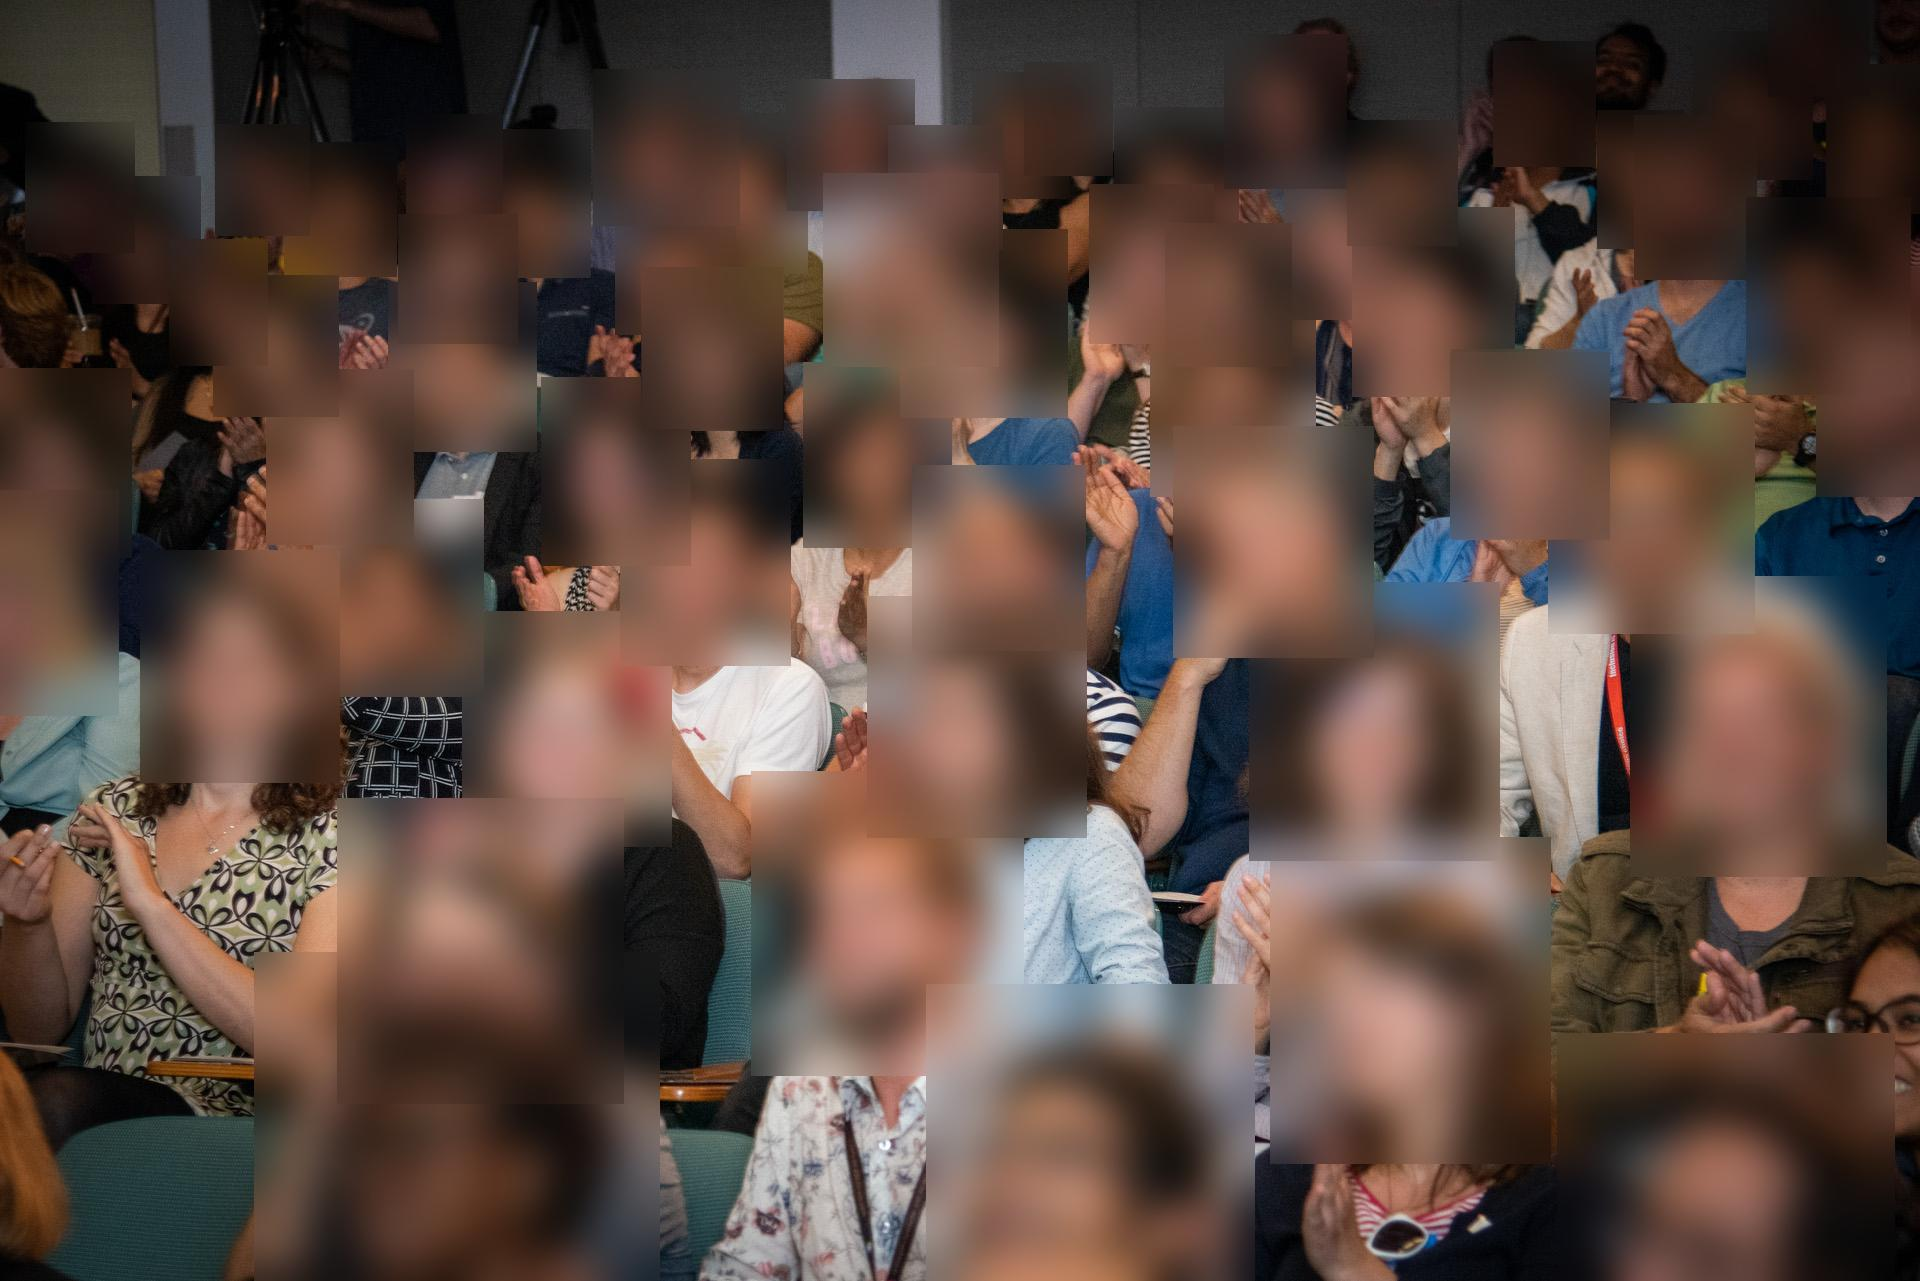
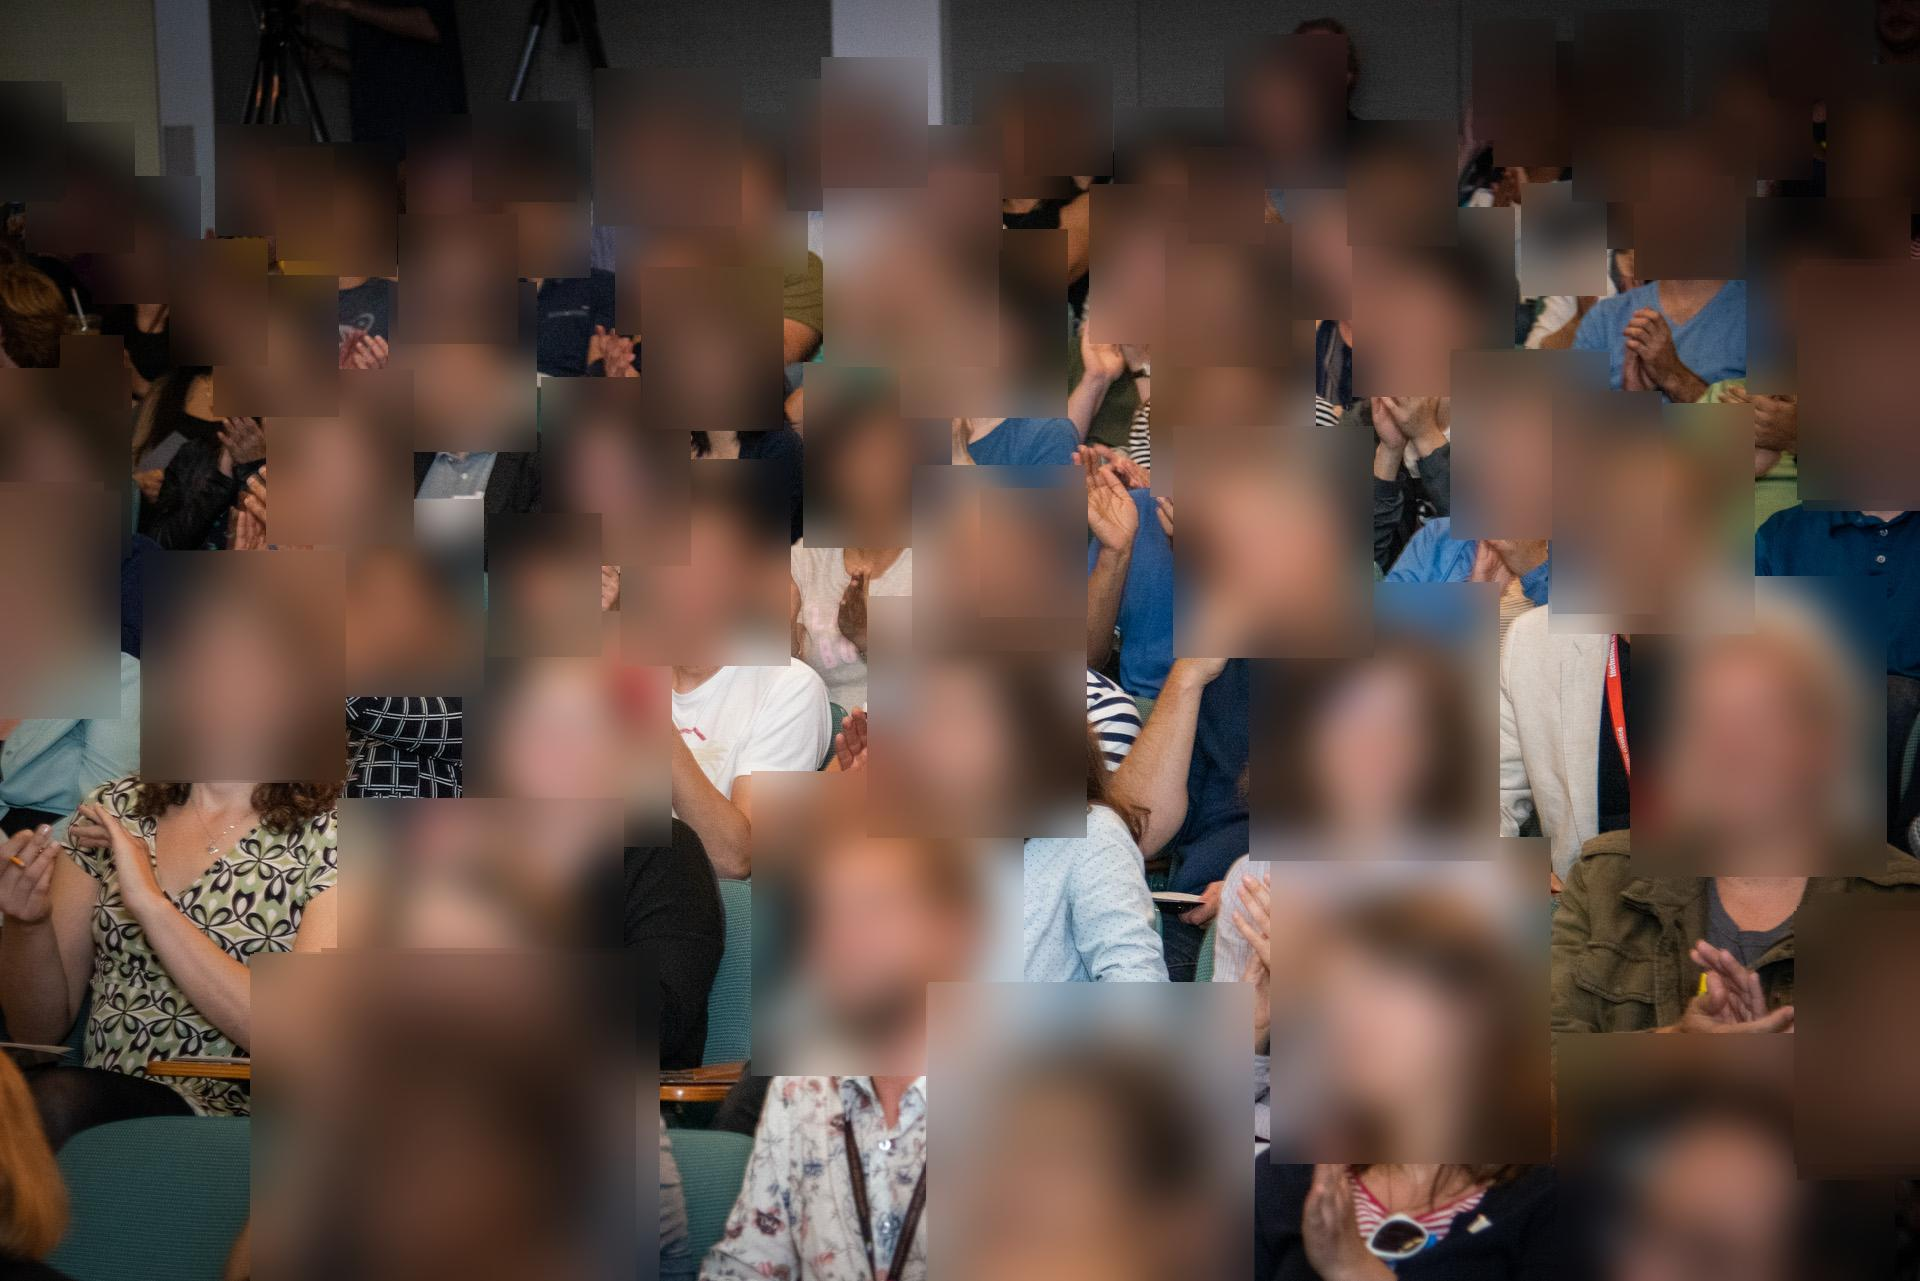
improve blurred results by decrease confidence threshold

diff --git a/head_detection.py b/head_detection.py
@@ -175,7 +175,7 @@ class HeadDetector:
 
 if __name__ == '__main__':
     detector = HeadDetector()
-    image = Image.open("examples/people2.jpg").convert('RGB')
-    labels, boxes, scores = detector.detect(image, confidence_threshold=0.2)
+    image = Image.open("examples/people.jpg").convert('RGB')
+    labels, boxes, scores = detector.detect(image, confidence_threshold=0.1)
     blurred_image = detector.blur_heads(image, boxes, padding_factor=0.2, blur_factor=20)
-    blurred_image.save("output_blurred2.jpg")
+    blurred_image.save("output_blurred.jpg")
